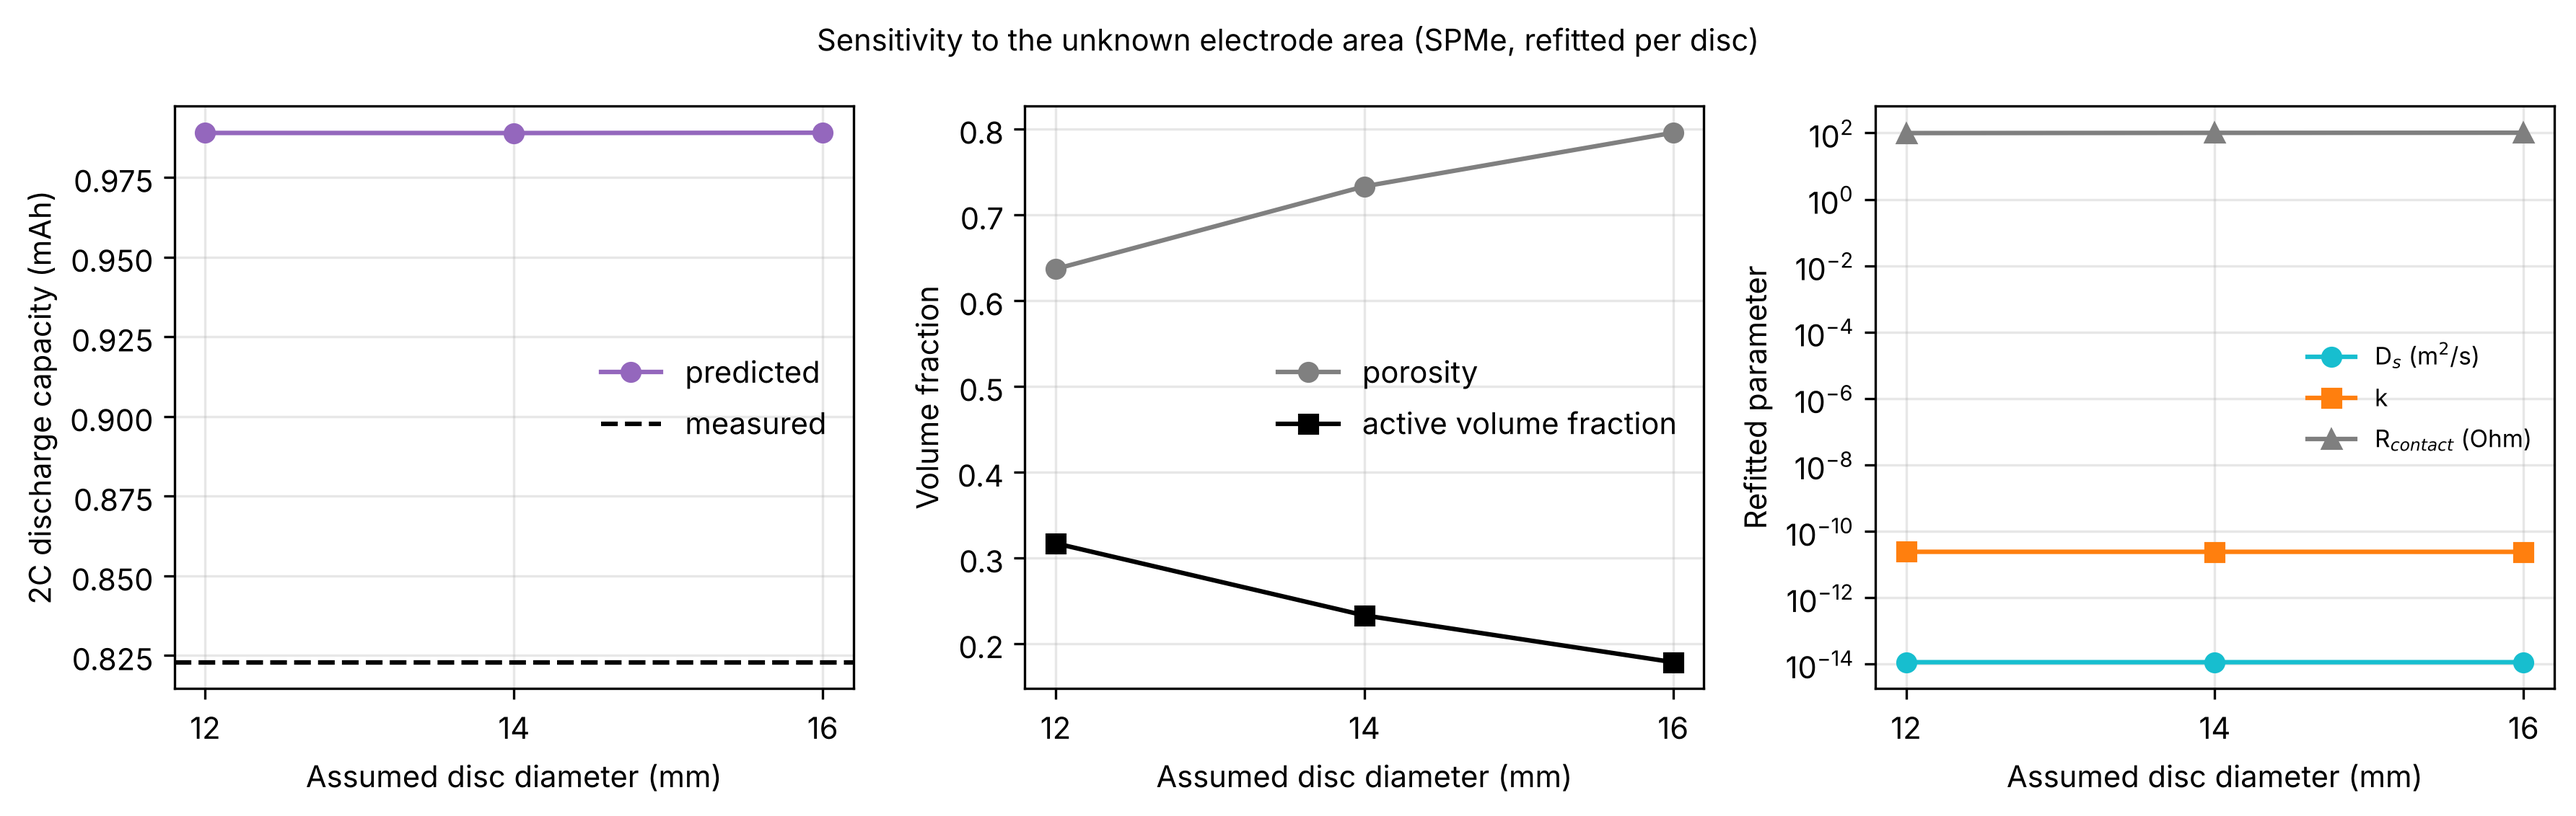
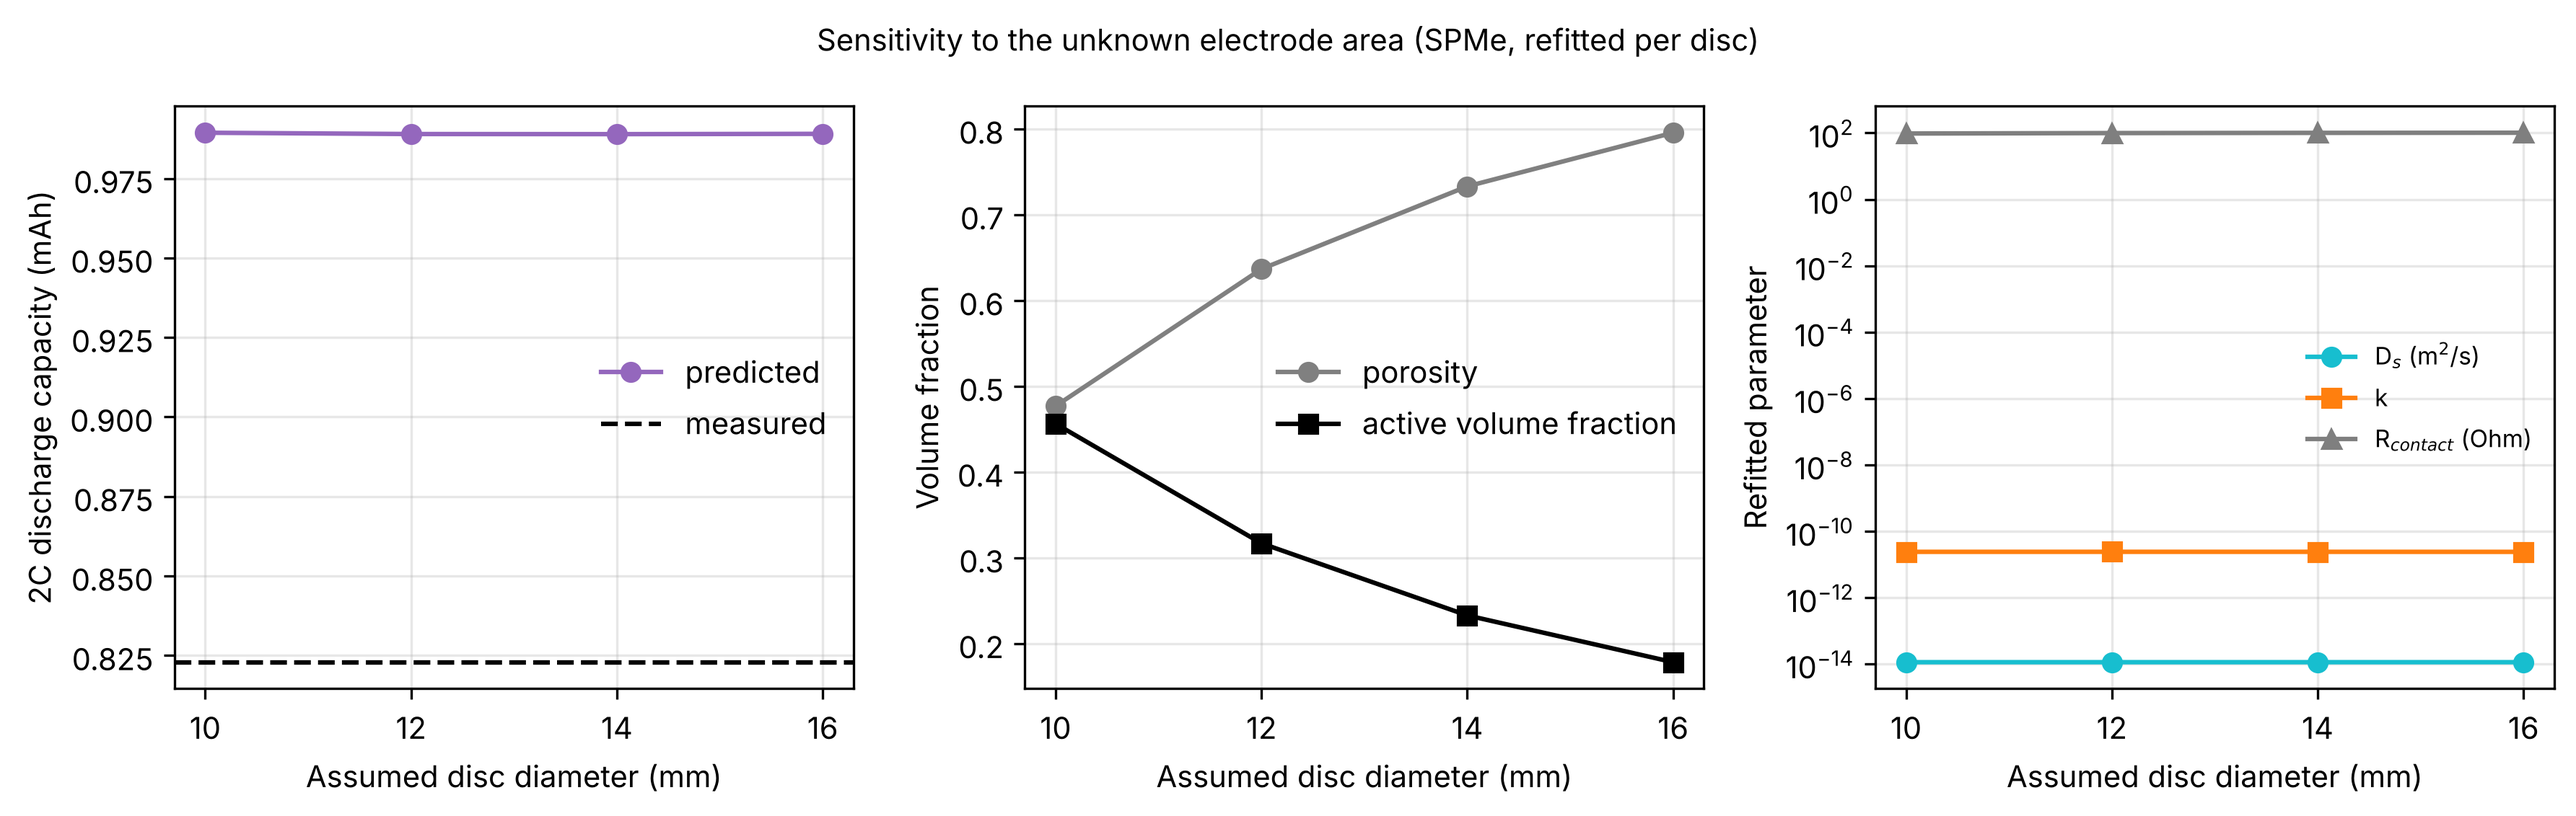
Widen disc sensitivity to 10-16 mm and grade coating plausibility

diff --git a/scripts/write_readme.py b/scripts/write_readme.py
@@ -109,16 +109,19 @@ def main(headline_kind="DFN"):
         for d, e in sorted(sens[k]["discs"].items(), key=lambda x: float(x[0])):
             g = e["geometry"]
             sens_rows.append(
-                f"| {k} | {float(d):.0f} | {g['areal_loading_mg_cm2']:.1f} | {g['active_volume_fraction']:.2f} | {g['porosity']:.2f} | "
-                f"{e['parameters']['R_contact']:.0f} | {e['parameters']['Ds']:.2e} | {e['predicted_2c_capacity_mAh']:.3f} ({e['predicted_2c_error_pct']:+.1f} %) |"
+                f"| {k} | {float(d):.0f} | {g['areal_loading_mg_cm2']:.1f} | {g['coating_density_g_cm3']:.2f} | {g['active_volume_fraction']:.2f} | {g['porosity']:.2f} | "
+                f"{g.get('plausibility', '')} | {1000 * e['training_rmse_V']:.1f} | {e['parameters']['R_contact']:.0f} | {e['parameters']['Ds']:.2e} | "
+                f"{e['predicted_2c_capacity_mAh']:.3f} ({e['predicted_2c_error_pct']:+.1f} %) |"
             )
     sens_table = "\n".join(
         [
-            "| Model | Disc (mm) | Loading (mg/cm²) | ε_active | Porosity | R_contact (Ω) | Ds (m²/s) | 2C prediction (mAh) |",
-            "|---|---|---|---|---|---|---|---|",
+            "| Model | Disc (mm) | Loading (mg/cm²) | Coating density (g/cm³) | ε_active | Porosity | Coating | Train RMSE (mV) | R_contact (Ω) | Ds (m²/s) | 2C prediction (mAh) |",
+            "|---|---|---|---|---|---|---|---|---|---|---|",
         ]
         + sens_rows
     )
+    plausible = sorted({float(d) for k in sens for d, e in sens[k]["discs"].items() if e["geometry"].get("plausibility") == "plausible"})
+    pred_range = [e["predicted_2c_capacity_mAh"] for k in sens for e in sens[k]["discs"].values()]
 
     corr = fit[H]["log10_correlation"]
     c10 = val[H]["rates"]["C/10"]["discharge"]
@@ -208,12 +211,22 @@ single biggest limitation of this work, and it is visible in the k / R_contact c
 
 {sens_table}
 
-The disc diameter is not known. For each diameter the active volume fraction and porosity were re-derived from
-the capacity (active mass from the EC-Lab capacity and the 110 mAh/g rating, LMO density 4.28 g/cm³, binder and
-carbon at 1.8 g/cm³) and the three parameters re-fitted. The implied porosities are high, which means either the
-coating is unusually light or the nominal capacity under-states the loading; the 2C prediction barely moves,
-because with a lithium-metal counter electrode and this electrolyte the half cell is not electrolyte-limited
-in the model.
+The disc diameter is genuinely unknown: the EC-Lab `.mpr` settings block has electrode surface area and
+characteristic mass at their 0.001 defaults (never entered); only the 1.434 mAh battery capacity was set. The
+capacity therefore ties area to active volume fraction. Active mass = 1.434 mAh / 110 mAh/g = {1000 * ocv['active_mass_g']:.1f} mg,
+active volume = {1000 * ocv['active_mass_g'] / 4.28 * 1e-3 * 1e3:.2f}e-3 cm³ at 4.28 g/cm³, so for the 85 µm coating ε_active = {1000 * ocv['active_mass_g'] / 4.28 / 85e-4 * 1e-3:.3f} / A[cm²]:
+10 mm gives 0.46, 12 mm 0.32, 14 mm 0.23 and 16 mm 0.18. Binder and carbon (5.8 wt%) are taken at 1.8 g/cm³ and
+the rest of the coating volume is pore. A calendered oxide cathode normally has a porosity of 0.25 to 0.40
+(up to ~0.5 uncalendered) and an active volume fraction of 0.45 to 0.65. By that yardstick only the
+{', '.join(f'{d:.0f} mm' for d in plausible) if plausible else 'none of the'} disc{'s' if len(plausible) != 1 else ''} give{'s' if len(plausible) == 1 else ''} a physically plausible coating; 12 mm would be an
+unusually light coating and 14 to 16 mm imply porosities of 0.73 to 0.80, which no real electrode has. Either
+the disc is small, or the 1.434 mAh (110 mAh/g) capacity under-states the active loading, so that the true
+ε_active is higher than this derivation gives for any disc. The three parameters were re-fitted for every
+diameter: the training RMSE, τ, k and the 2C prediction do not change to the precision shown
+(2C spans {min(pred_range):.3f} to {max(pred_range):.3f} mAh), and only R_contact drifts by a few ohms as the electrolyte and solid
+ohmic paths take up slack. The model is not electrolyte-limited with a lithium-metal counter electrode and this
+electrolyte, so the unknown area does not affect the headline result, and the 14 mm assumption was kept for the
+headline figures as the mid-point of the 12 to 16 mm range coin cells usually use.
 
 ## Method
 
@@ -248,8 +261,13 @@ in the model.
 
 - One cell, one cycle per rate, and the seven tests ran in sequence on that cell, so slow drift (Mn dissolution,
   electrolyte oxidation at 4.5 V) is folded into the fitted parameters.
-- The electrode area is unknown; see the sensitivity table. The electrolyte is assumed to be 1 M LiPF6 in
-  carbonates with the `Xu2019` / Valoen2005 transport properties, and the lithium-metal kinetics are Xu2019's.
+- The electrode area was never entered in EC-Lab (surface area and characteristic mass are at the 0.001
+  defaults in the `.mpr` settings), so it is derived from the capacity: ε_active = {1000 * ocv['active_mass_g'] / 4.28 / 85e-4 * 1e-3:.3f} / A[cm²].
+  Only a 10 mm disc gives a conventional coating; the 12 to 16 mm discs imply light to implausibly porous
+  coatings, which points to the nominal capacity under-stating the loading. The headline uses 14 mm; the
+  sensitivity table shows the prediction does not depend on this choice.
+- The electrolyte is assumed to be 1 M LiPF6 in carbonates with the `Xu2019` / Valoen2005 transport
+  properties, and the lithium-metal kinetics are Xu2019's.
 - The fitted parameters are effective values: τ = R²/Ds at an assumed 5 µm radius, a rate constant that absorbs
   the unknown real surface area, and a contact resistance of about {fit[H]['parameters']['R_contact']['value']:.0f} Ω that lumps current-collector contact,
   separator and lithium-metal interphase resistance. The round-trip IR drop of that resistance at the C/10 current is {ir_c10_mV:.0f} mV, about half of the

diff --git a/src/lmo/model.py b/src/lmo/model.py
@@ -36,8 +36,28 @@ F = 96485.33212
 DEFAULT_FIT = {"Ds": 1e-14, "k": 1e-11, "R_contact": 20.0}
 
 
+# Typical calendered oxide cathode coatings: porosity 0.25-0.40, up to ~0.5 if uncalendered, with
+# active volume fractions of 0.45-0.65. Used only to grade the disc-diameter assumption.
+PLAUSIBLE_POROSITY = (0.20, 0.50)
+
+
+def plausibility(porosity: float) -> str:
+    lo, hi = PLAUSIBLE_POROSITY
+    if lo <= porosity <= hi:
+        return "plausible"
+    if porosity < lo:
+        return "too dense"
+    if porosity <= 0.65:
+        return "light coating"
+    return "implausibly porous"
+
+
 def disc_geometry(disc_mm: float = DEFAULT_DISC_MM) -> dict:
-    """Area, active volume fraction and porosity consistent with the capacity for a disc."""
+    """Area, active volume fraction and porosity consistent with the capacity for a disc.
+
+    eps_s = V_active / (A L) = 0.359 cm2 / A for this cell: 10 mm 0.46, 12 mm 0.32, 14 mm 0.23,
+    16 mm 0.18.
+    """
     area = np.pi * (disc_mm * 1e-3 / 2) ** 2
     m_active = active_mass_g() * 1e-3
     m_inactive = m_active * (1 - ACTIVE_WT_FRACTION) / ACTIVE_WT_FRACTION
@@ -55,6 +75,7 @@ def disc_geometry(disc_mm: float = DEFAULT_DISC_MM) -> dict:
         "inactive_volume_fraction": eps_inactive,
         "porosity": porosity,
         "coating_density_g_cm3": (m_active + m_inactive) * 1e3 / (v_coating * 1e6),
+        "plausibility": plausibility(porosity),
     }
 
 

diff --git a/src/lmo/validate.py b/src/lmo/validate.py
@@ -215,8 +215,14 @@ def validate_cv(kind: str = "SPMe", fit: dict | None = None, disc_mm: float = DE
 # ------------------------------------------------------------------ disc diameter sensitivity
 
 
-def disc_sensitivity(kind: str = "SPMe", discs=(12.0, 14.0, 16.0), save: bool = True) -> dict:
-    """Refit the three parameters for each assumed disc diameter and re-predict 2C."""
+def disc_sensitivity(kind: str = "SPMe", discs=(10.0, 12.0, 14.0, 16.0), save: bool = True) -> dict:
+    """Refit the three parameters for each assumed disc diameter and re-predict 2C.
+
+    The EC-Lab .mpr settings hold no electrode area (surface area and characteristic mass are
+    at the 0.001 defaults), so the disc size is genuinely unknown. The capacity fixes the active
+    volume (13.0 mg / 4.28 g/cm3 = 3.05e-3 cm3), hence eps_s = 0.359 / A[cm2] for the 85 um
+    coating. Each disc is also graded for physical plausibility of the implied coating.
+    """
     out = {"model": kind, "discs": {}}
     for d in discs:
         result, _, elapsed = fit_parameters(kind, d, verbose=False)
